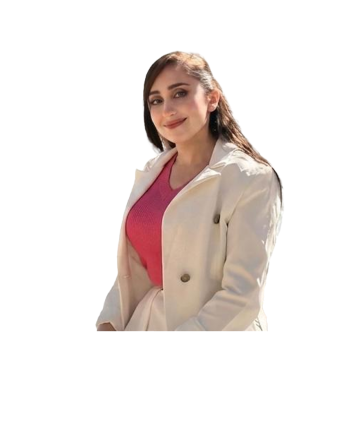
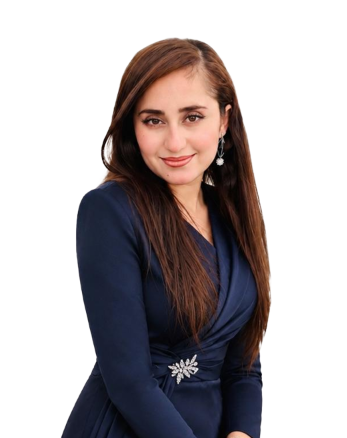
fix: update pnpm lockfile for production build

diff --git a/app/about/page.tsx b/app/about/page.tsx
@@ -27,39 +27,37 @@ export default function AboutPage() {
     },
   }
 
-  // ١. ل ڤێرە سەرۆکێ تیمی ب جودا دانا چونکی دڤێت ل سەرەوە ب تنێ بیت
+  // سەرۆکێ تیمی
   const leaderMember = {
     name: "Mr. Hshyar Omar Ali",
     role: "Chief Executive Officer (CEO)",
     image: "hshyar.png", 
-    bio: "20+ years in education"
+   
   }
 
-  // ٢. ئەندامێن دی یێن تیمی کو دێ ل بن سەرۆکی دا ل هێڵەکا دیار بن
+  // ئەندامێن تیمی
   const teamMembers = [
     {
-      name: "Mr. Zhardil Abdulsami Mohamad",
+      name: "Mr. Zhardil Hama Karim",
       role: "Chief Operating Officer (COO)",
       image: "zhardill.png", 
-      bio: "Leader"
+      
     },
     {
       name: "Ms. Maryam Mohammed Tahir",
       role: "Technology Lead",
       image: "maryamm.png", 
-      bio: "Senior Frontend Developer"
+     
     },
     {
       name: "Ms. Khozik Hameed khalid",
       role: "Innovation Coordinator",
       image: "khozik.png", 
-      bio: "Creative & Strategic Thinker"
     },
     {
-      name: "Ms. Amal Eido Ismail",
+      name: "Amal Eido Ismail",
       role: "Administrative Manager",
       image: "amall.png", 
-      bio: "Student Success Advocate"
     },
   ]
 
@@ -118,14 +116,16 @@ export default function AboutPage() {
         </motion.div>
       </section>
 
-      {/* Stats Section */}
+      {/* Stats Section (ئەڤە ئەو بەشە بوو کو کێشە چێکربوو، نوکا هاتییە ڕێکخستن) */}
       <motion.section
         variants={containerVariants}
         initial="hidden"
         whileInView="visible"
         viewport={{ once: true }}
-        className="relative py-20 px-6 bg-gradient-to-b from-transparent via-primary/10 to-transparent"
-      />
+        className="relative py-10 px-6 bg-gradient-to-b from-transparent via-primary/10 to-transparent"
+      >
+        {/* بەشێ خاڵی یان داتای سەرەتایی ل ڤێرە دبییت داهاتی */}
+      </motion.section>
 
       {/* Mission & Vision Section */}
       <motion.section
@@ -193,36 +193,12 @@ export default function AboutPage() {
             className="grid md:grid-cols-3 gap-6"
           >
             {[
-              {
-                title: "Growth",
-                description: "We believe every student has the power to grow through learning and new experiences.",
-                icon: "⭐"
-              },
-              {
-                title: "Inclusivity",
-                description: "We embrace diversity and ensure every student feels valued and supported.",
-                icon: "🤝"
-              },
-              {
-                title: "Quality Education",
-                description: "We provide high-quality online online courses designed for real skills and real progress.",
-                icon: "💡"
-              },
-              {
-                title: "Empowerment",
-                description: "We help students build confidence, knowledge, and opportunities for the future.",
-                icon: "✅"
-              },
-              {
-                title: "Community",
-                description: "We create a supportive learning environment where everyone feels motivated and connected.",
-                icon: "🌍"
-              },
-              {
-                title: "Lifelong Learning",
-                description: "Learning never stops, and we inspire continuous personal and professional development.",
-                icon: "🚀"
-              },
+              { title: "Growth", description: "We believe every student has the power to grow through learning and new experiences.", icon: "⭐" },
+              { title: "Inclusivity", description: "We embrace diversity and ensure every student feels valued and supported.", icon: "🤝" },
+              { title: "Quality Education", description: "We provide high-quality online online courses designed for real skills and real progress.", icon: "💡" },
+              { title: "Empowerment", description: "We help students build confidence, knowledge, and opportunities for the future.", icon: "✅" },
+              { title: "Community", description: "We create a supportive learning environment where everyone feels motivated and connected.", icon: "🌍" },
+              { title: "Lifelong Learning", description: "Learning never stops, and we inspire continuous personal and professional development.", icon: "🚀" },
             ].map((value, index) => (
               <motion.div
                 key={index}
@@ -238,7 +214,7 @@ export default function AboutPage() {
         </div>
       </motion.section>
 
-      {/* Team Section (ئەو بەشێ هاتییە گۆڕین بۆ ڕێکخستنا کارتان) */}
+      {/* Team Section */}
       <motion.section
         variants={containerVariants}
         initial="hidden"
@@ -255,13 +231,13 @@ export default function AboutPage() {
           </motion.div>
 
           <div className="flex flex-col gap-12">
-            {/* 👑 هێڵا ئێکێ: تەنها کارتی سەرۆک (Mr. Hshyar) ب تەنێ ل ناوەڕاستێ */}
+            {/* 👑 کارتی سەرۆک (Mr. Hshyar) */}
             <motion.div 
               variants={itemVariants}
-              className="flex justify-center"
+              className="flex justify-center px-4"
             >
               <div className="group cursor-pointer rounded-xl border border-border bg-card p-6 text-center shadow-sm transition-shadow hover:shadow-md flex flex-col items-center max-w-sm w-full">
-                <div className="relative h-36 w-36 mb-6 overflow-hidden rounded-full border-4 border-primary/30 shadow-lg transition-transform duration-300 group-hover:scale-110 bg-muted">
+                <div className="relative h-32 w-32 sm:h-36 sm:w-36 mb-6 overflow-hidden rounded-full border-4 border-primary/30 shadow-lg transition-transform duration-300 group-hover:scale-110 bg-muted">
                   <Image
                     src={leaderMember.image}
                     alt={leaderMember.name}
@@ -273,38 +249,38 @@ export default function AboutPage() {
                     }}
                   />
                 </div>
-                <h3 className="text-xl font-bold text-foreground mb-1 transition-colors group-hover:text-primary">{leaderMember.name}</h3>
-                <p className="text-sm text-primary font-semibold mb-3">{leaderMember.role}</p>
-                <p className="text-xs text-muted-foreground leading-relaxed px-2">{leaderMember.bio}</p>
+                <h3 className="text-lg sm:text-xl font-bold text-foreground mb-1 transition-colors group-hover:text-primary break-words max-w-full">{leaderMember.name}</h3>
+                <p className="text-xs sm:text-sm text-primary font-semibold mb-3">{leaderMember.role}</p>
               </div>
             </motion.div>
 
-            {/* 👥 هێڵا دووێ: ئەندامێن دی یێن تیمی ل بن سەرۆکی دا */}
+            {/* 👥 ئەندامێن تیمی */}
             <motion.div 
               variants={containerVariants}
-              className="grid sm:grid-cols-2 lg:grid-cols-4 gap-6"
+              className="grid grid-cols-2 lg:grid-cols-4 gap-4 sm:gap-6"
             >
               {teamMembers.map((member, index) => (
                 <motion.div
                   key={index}
                   variants={itemVariants}
-                  className="group cursor-pointer rounded-xl border border-border bg-card p-6 text-center shadow-sm transition-shadow hover:shadow-md flex flex-col items-center"
+                  className="group cursor-pointer rounded-xl border border-border bg-card p-4 sm:p-6 text-center shadow-sm transition-shadow hover:shadow-md flex flex-col items-center justify-between"
                 >
-                  <div className="relative h-36 w-36 mb-6 overflow-hidden rounded-full border-4 border-primary/30 shadow-lg transition-transform duration-300 group-hover:scale-110 bg-muted">
-                    <Image
-                      src={member.image}
-                      alt={member.name}
-                      fill
-                      className="object-cover"
-                      sizes="(max-w-7xl) 100vw"
-                      onError={(e) => {
-                        (e.target as HTMLImageElement).src = `https://api.dicebear.com/7.x/initials/svg?seed=${member.name}`
-                      }}
-                    />
+                  <div className="flex flex-col items-center w-full">
+                    <div className="relative h-24 w-24 sm:h-36 sm:w-36 mb-4 overflow-hidden rounded-full border-2 sm:border-4 border-primary/30 shadow-md transition-transform duration-300 group-hover:scale-110 bg-muted">
+                      <Image
+                        src={member.image}
+                        alt={member.name}
+                        fill
+                        className="object-cover"
+                        sizes="(max-w-7xl) 100vw"
+                        onError={(e) => {
+                          (e.target as HTMLImageElement).src = `https://api.dicebear.com/7.x/initials/svg?seed=${member.name}`
+                        }}
+                      />
+                    </div>
+                    <h3 className="text-sm sm:text-xl font-bold text-foreground mb-1 transition-colors group-hover:text-primary line-clamp-2 min-h-[40px] sm:min-h-0">{member.name}</h3>
+                    <p className="text-[11px] sm:text-sm text-primary font-semibold mb-2 line-clamp-1">{member.role}</p>
                   </div>
-                  <h3 className="text-xl font-bold text-foreground mb-1 transition-colors group-hover:text-primary">{member.name}</h3>
-                  <p className="text-sm text-primary font-semibold mb-3">{member.role}</p>
-                  <p className="text-xs text-muted-foreground leading-relaxed px-2">{member.bio}</p>
                 </motion.div>
               ))}
             </motion.div>
@@ -348,15 +324,9 @@ export default function AboutPage() {
             © 2026 GrowWave Academy. All rights reserved.
           </p>
           <div className="flex items-center gap-6">
-            <a href="#" className="text-sm text-muted-foreground hover:text-foreground transition-colors">
-              Privacy
-            </a>
-            <a href="#" className="text-sm text-muted-foreground hover:text-foreground transition-colors">
-              Terms
-            </a>
-            <a href="#" className="text-sm text-muted-foreground hover:text-foreground transition-colors">
-              Contact
-            </a>
+            <a href="#" className="text-sm text-muted-foreground hover:text-foreground transition-colors">Privacy</a>
+            <a href="#" className="text-sm text-muted-foreground hover:text-foreground transition-colors">Terms</a>
+            <a href="#" className="text-sm text-muted-foreground hover:text-foreground transition-colors">Contact</a>
           </div>
         </div>
       </footer>
